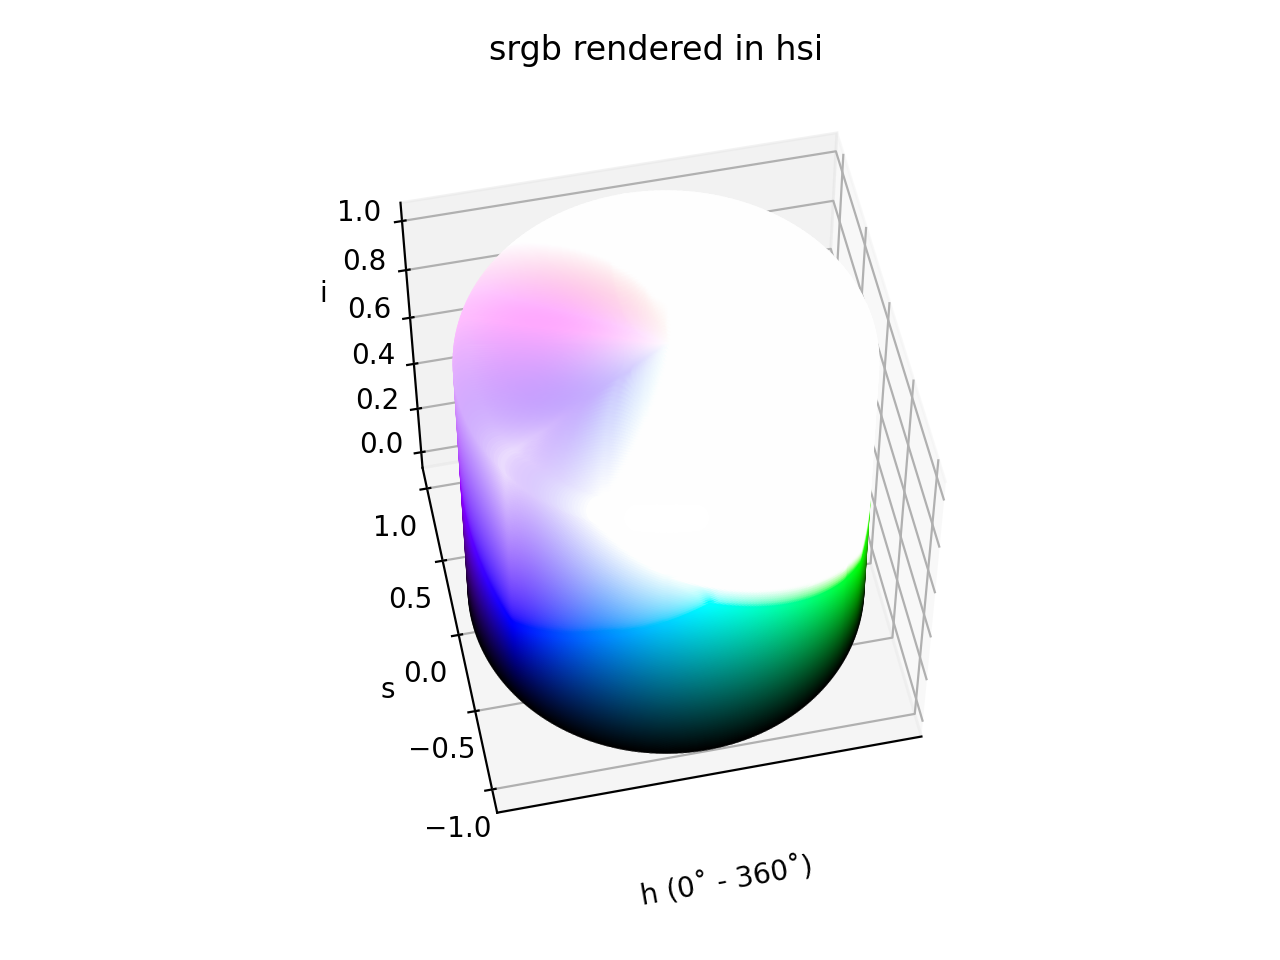
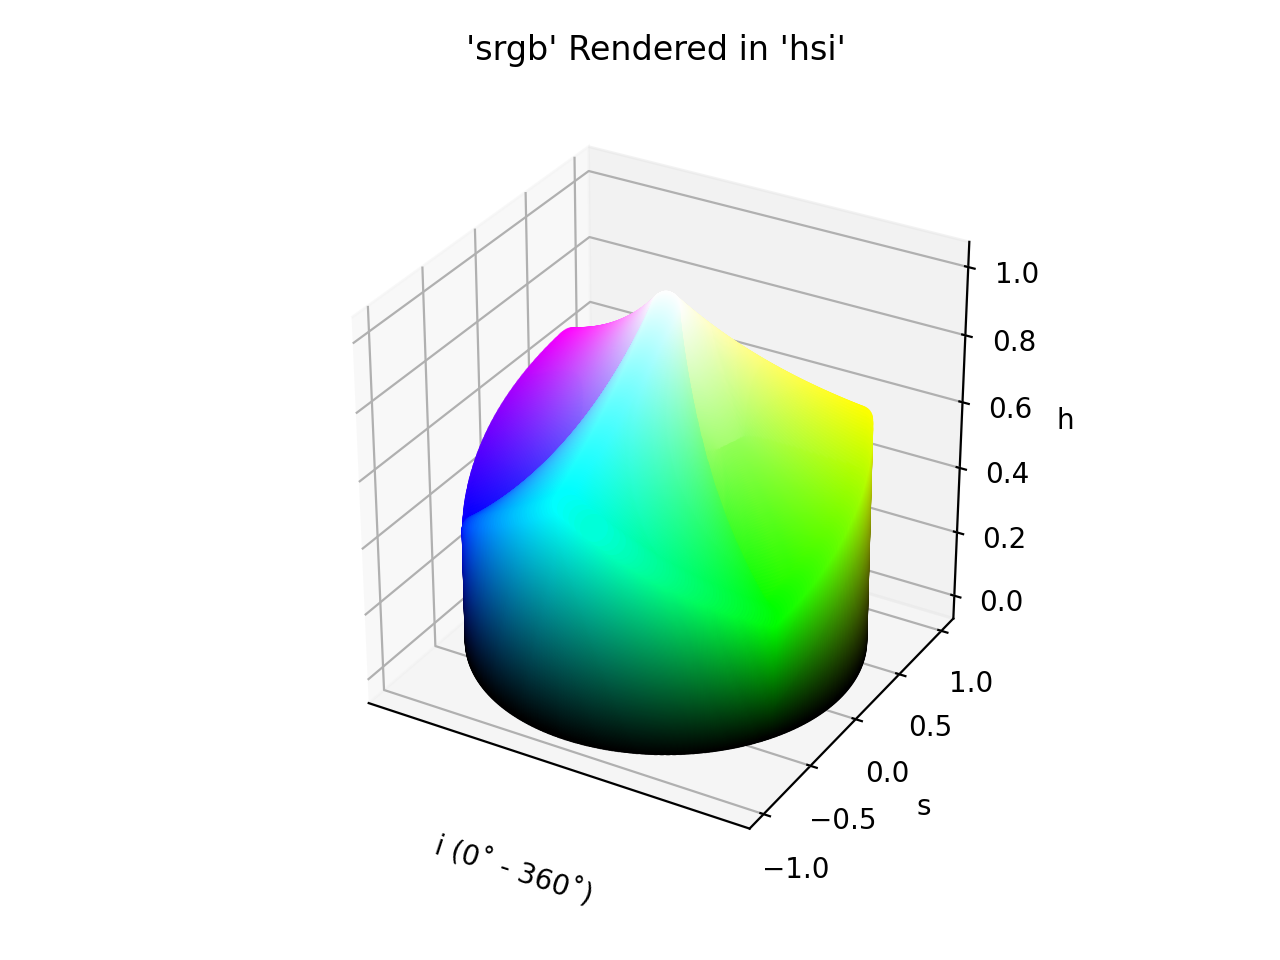
Update better 3D models of color spaces

diff --git a/README.md b/README.md
@@ -53,12 +53,21 @@ C, M, and Y inks are translucent and will only produce a gray color when laid on
 
 [Learn more](https://en.wikipedia.org/wiki/CMY_color_model).
 
+### xyY
+
+A derivative of this XYZ space, the CIE xyY color space, is often used as a way to graphically present the chromaticity
+of colors.
+
+![CMY](images/xyy.png)
+
+[Learn more](https://en.wikipedia.org/wiki/CIE_1931_color_space#CIE_xy_chromaticity_diagram_and_the_CIE_xyY_color_space).
+
 ### CIE 1960 UCS
 
 The CIE 1960 color space ("CIE 1960 UCS", variously expanded Uniform Color Space, Uniform Color Scale, Uniform
 Chromaticity Scale, Uniform Chromaticity Space) is another name for the (u, v) chromaticity space devised by David
-MacAdam. The is color space is implemented using the relation between this space and the XYZ space as coordinates U, V,
-and W.
+MacAdam. The color space is implemented using the relation between this space and the XYZ space as coordinates U, V, and
+W.
 
 ![UCS](images/ucs.png)
 
@@ -73,6 +82,9 @@ as in Adams chromatic valence color spaces.
 
 What's with all the weird negative black values at the bottom? :shrug:
 
+The algorithm is simple enough that it is unlikely that we are wrong, but more the color space was not designed in such
+a way to render nicely but to focus mainly on the distancing requirement.
+
 ![UVW](images/uvw.png)
 
 [Learn more](https://en.wikipedia.org/wiki/CIE_1964_color_space).
@@ -81,7 +93,7 @@ What's with all the weird negative black values at the bottom? :shrug:
 
 The HSI model is similar to models like HSL and HSV except that it uses I for intensity instead of Lightness or Value.
 It does not attempt to "fill" a cylinder by its definition of saturation leading to a very different look when we plot
-it like we do HSL and HSV. Though it makes more sense when you see a cross section of a particular hue.
+it.
 
 ![HSI](images/hsi.png)
 
